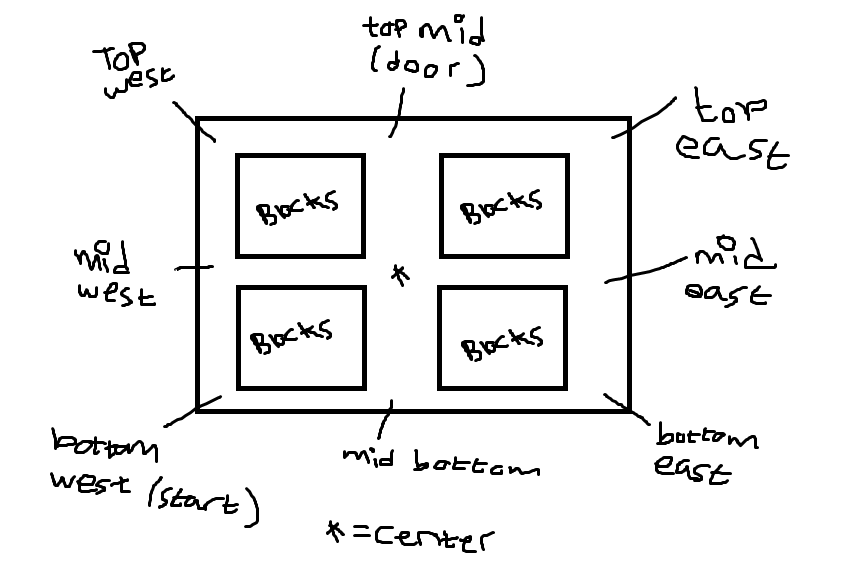
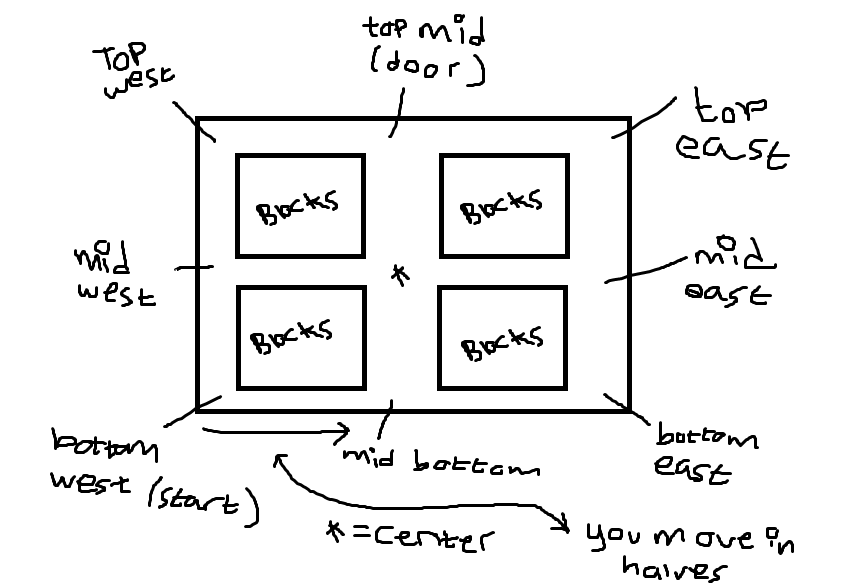
Update

diff --git a/readme.md b/readme.md
@@ -1,4 +1,4 @@
-<h1>23 Skidoo</h1>
+<h1>MyMaze</h1>
 This is a simple text based maze game.
 As it stands at the moment, it's just a very simple maze nagivation thingie magic.
 <br />
@@ -7,6 +7,9 @@ As it stands at the moment, it's just a very simple maze nagivation thingie magi
 <br />
 
 excuse the terrible handwriting... My mouse is horrible.
+Also, in case you get confused:
+<b> You move in increments of halves. So if you where to type 'e' from the start, you would
+	move to mid bottom </b>
 <h2>LICENCE</h2>
 This "game" (if you wish to call it that) is released fully under the MIT licence.
 Do what you want with the code. Not like you'll actually <i>want</i> to.
